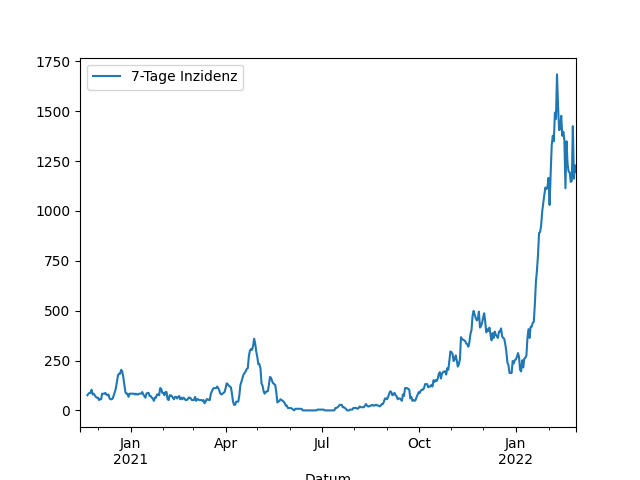
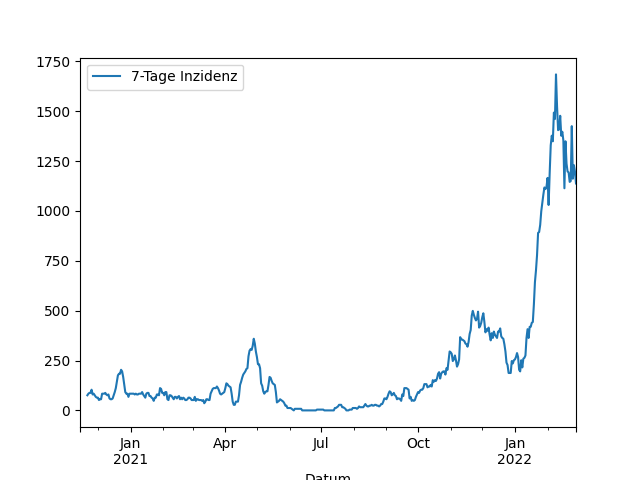
Update images

diff --git a/_includes/aktuelle_inzidenz.md b/_includes/aktuelle_inzidenz.md
@@ -1,1 +1,1 @@
-1197,5
+1137,6
